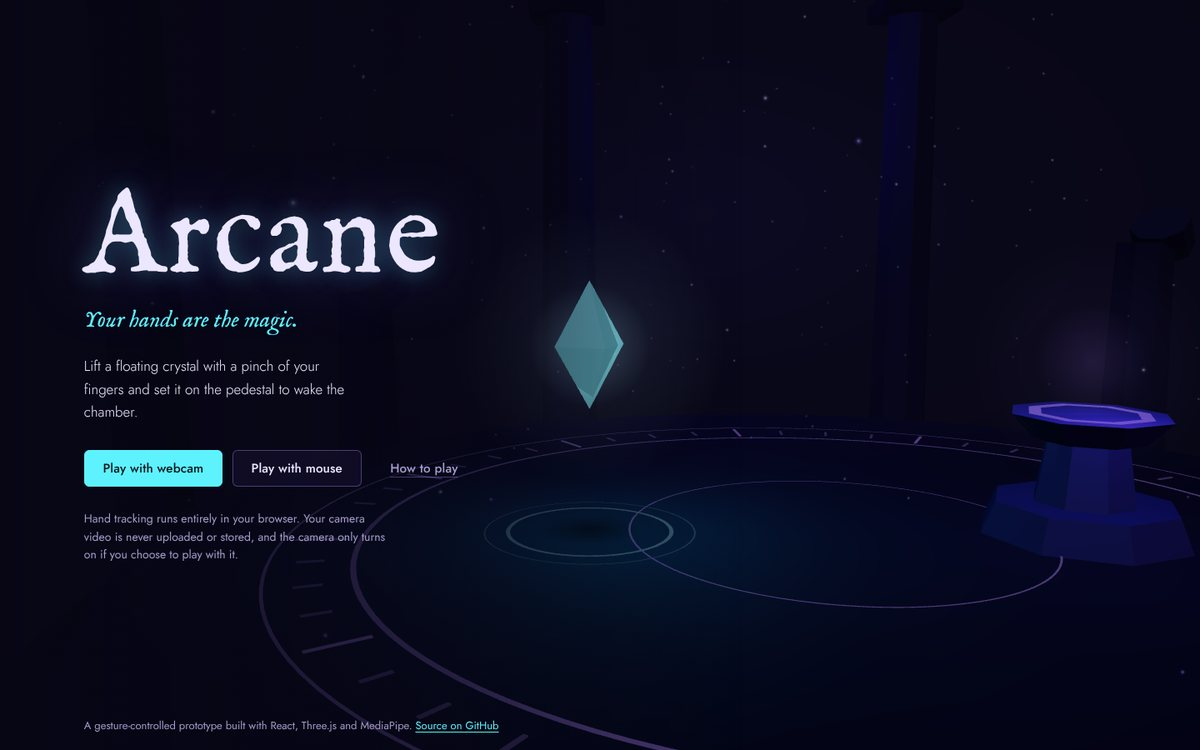
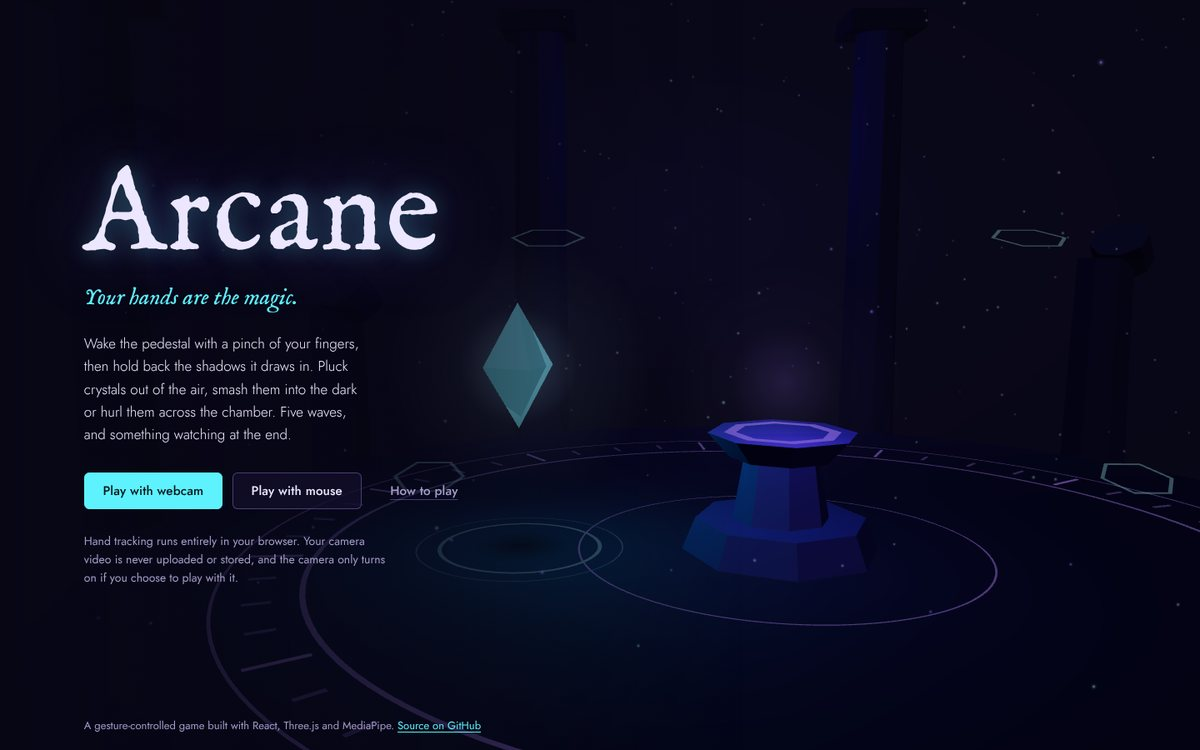
Fix throws at low frame rates, polish HUD and visuals, update README
- Cursor history now merges repeated positions (fixed-step replays, a still
  hand), so a fast move between two slow frames still throws and a pause
  before letting go still drops
- Health bars move under the pedestal; numbers use Jost; darker shadows;
  smaller boss; softer pedestal light; Mute/Unmute label
- ?debug adds jump-to-wave buttons to the status panel
- README and screenshots describe the game; e2e flick test dispatches the
  fast part of the gesture directly

Claude-Session: https://claude.ai/code/session_01Cs8D1gD6oppnHTXQBrFct4

diff --git a/src/game/world.ts b/src/game/world.ts
@@ -152,7 +152,8 @@ export class World {
   private wellTimers: number[] = []
   private specialSpot = 0
   private prevGrip = false
-  private history: { t: number; x: number; y: number }[] = []
+  /** Recent cursor positions while holding: each with the first and last time it was seen there. */
+  private history: { x: number; y: number; first: number; last: number }[] = []
   private events: GameEvent[] = []
 
   constructor(seed = 1) {
@@ -262,8 +263,7 @@ export class World {
         return
       }
       const target = this.clampToBounds(pointer)
-      this.history.push({ t: this.time, x: target.x, y: target.y })
-      while (this.history.length > 2 && this.time - this.history[1].t > 0.15) this.history.shift()
+      this.recordCursor(target)
       held.x = damp(held.x, target.x, TUNING.followSpeed, dt)
       held.y = damp(held.y, target.y, TUNING.followSpeed, dt)
       this.nearSocket = SPECIAL.has(held.kind) && this.canPlace(held) && (this.isOverSocket(held) || this.isOverSocket(target))
@@ -302,7 +302,8 @@ export class World {
       shard.state = 'held'
       shard.idle = 0
       this.heldId = shard.id
-      this.history = [{ t: this.time, x: pointer.x, y: pointer.y }]
+      this.history = []
+      this.recordCursor(pointer)
       this.events.push({ type: 'grab', kind: shard.kind })
     }
   }
@@ -346,26 +347,41 @@ export class World {
   }
 
   /**
-   * Velocity of the hand just before release: measured against the newest
-   * sample at least 80 ms older than the last one. Using "at least" (rather
-   * than a fixed window) keeps throws working at low frame rates, where samples
-   * can be more than 100 ms apart.
+   * Remembers where the cursor is. Repeated identical positions (the same
+   * frame replayed in several simulation steps, or a hand held still) extend
+   * one sample instead of adding new ones, so a pause looks like a pause and
+   * a fast move between two slow frames still looks fast.
+   */
+  private recordCursor(p: Vec2): void {
+    const prev = this.history[this.history.length - 1]
+    if (prev && Math.abs(prev.x - p.x) < 1e-4 && Math.abs(prev.y - p.y) < 1e-4) {
+      prev.last = this.time
+      return
+    }
+    this.history.push({ x: p.x, y: p.y, first: this.time, last: this.time })
+    while (this.history.length > 2 && this.time - this.history[1].last > 0.4) this.history.shift()
+  }
+
+  /**
+   * Velocity of the hand at release: zero if it had come to rest for a
+   * moment (a deliberate drop), otherwise its speed over its last ~50 ms of
+   * movement. Works the same at 60 fps and at 8 fps.
    */
   private releaseVelocity(cursor: Vec2 | null): Vec2 {
-    const samples = cursor ? [...this.history, { t: this.time, x: cursor.x, y: cursor.y }] : this.history
-    if (samples.length < 2) return { x: 0, y: 0 }
-    const last = samples[samples.length - 1]
-    let first = samples[0]
-    for (let i = samples.length - 2; i >= 0; i--) {
-      if (last.t - samples[i].t >= 0.08) {
-        first = samples[i]
+    if (cursor) this.recordCursor(cursor)
+    const h = this.history
+    if (h.length < 2) return { x: 0, y: 0 }
+    const end = h[h.length - 1]
+    if (this.time - end.first > TUNING.throwRestTime) return { x: 0, y: 0 }
+    let start = h[0]
+    for (let i = h.length - 2; i >= 0; i--) {
+      if (end.first - h[i].last >= 0.05) {
+        start = h[i]
         break
       }
     }
-    // Several samples can share a timestamp (input replayed between frames);
-    // treat that as one frame's worth of motion.
-    const span = Math.max(last.t - first.t, 1 / 60)
-    return { x: (last.x - first.x) / span, y: (last.y - first.y) / span }
+    const span = Math.max(end.first - start.last, 1 / 60)
+    return { x: (end.x - start.x) / span, y: (end.y - start.y) / span }
   }
 
   private launch(shard: Shard, dx: number, dy: number, speed: number): void {

diff --git a/e2e/mouse.spec.ts b/e2e/mouse.spec.ts
@@ -110,8 +110,21 @@ test('throw: a quick flick of the mouse throws the shard', async ({ page }) => {
   await page.waitForTimeout(100)
   await page.mouse.down()
   await expect.poll(async () => (await world(page)).held).toBe('shard')
-  // Flick: a few fast moves, then let go mid-motion.
-  for (let i = 1; i <= 4; i++) await page.mouse.move(from.x + ((to.x - from.x) * i) / 4, from.y + ((to.y - from.y) * i) / 4)
+  // Flick and let go mid-motion. Playwright's mouse.move waits for a rendered
+  // frame between steps, which on software-rendered CI turns a "flick" into a
+  // slow drag with pauses (correctly treated as a drop), so the fast part of
+  // the gesture is dispatched directly, as a real flick would arrive.
+  await page.evaluate(
+    ([a, b]) => {
+      const stage = document.querySelector('[data-testid="stage"]')!
+      const fire = (type: string, p: { x: number; y: number }) =>
+        stage.dispatchEvent(new PointerEvent(type, { clientX: p.x, clientY: p.y, button: 0, pointerId: 1, bubbles: true }))
+      fire('pointermove', { x: (a.x + b.x) / 2, y: (a.y + b.y) / 2 })
+      fire('pointermove', b)
+      fire('pointerup', b)
+    },
+    [from, to],
+  )
   await page.mouse.up()
   expect(await thrown).toBe(true)
 })

diff --git a/src/game/world.test.ts b/src/game/world.test.ts
@@ -138,6 +138,15 @@ describe('crystal shards', () => {
     expect(types(w.update({ pointer: { x: WELLS[0].x + 3, y: WELLS[0].y + 1.5 }, grip: false }, 0))).toContain('throw')
   })
 
+  it('a flick that lands inside one slow frame (replayed as several fixed steps) still throws', () => {
+    const w = ready()
+    grab(w, WELLS[0])
+    tick(w, WELLS[0], true, 1) // held still for a while first
+    const to = { x: WELLS[0].x + 1.6, y: WELLS[0].y + 1.2 }
+    for (let i = 0; i < 6; i++) w.update({ pointer: to, grip: true }, 1 / 60) // one 100 ms frame, six steps
+    expect(types(w.update({ pointer: to, grip: false }, 0))).toContain('throw')
+  })
+
   it('a thrown shard destroys a shadow, with aim assist for slightly-off throws', () => {
     const w = freshWorld()
     startWave(w, 1)

diff --git a/src/game/constants.ts b/src/game/constants.ts
@@ -55,6 +55,7 @@ export const TUNING = {
   smashCooldown: 0.4, // seconds before the same shard can hit the same target again
   knockback: 3,
   throwMinSpeed: 3.2, // releasing faster than this (units/s) throws the shard
+  throwRestTime: 0.25, // ...unless the hand had stopped for this long before letting go
   throwBoost: 1.25,
   throwMinLaunch: 7,
   throwMaxLaunch: 13,
